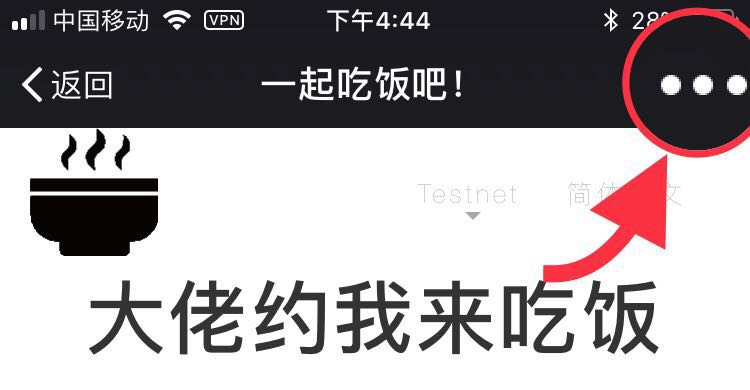
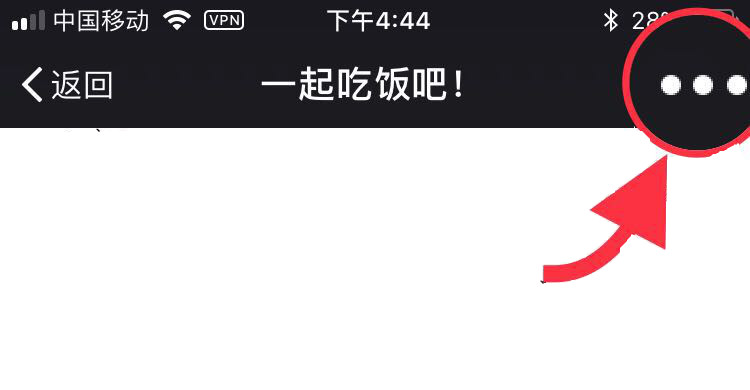
优化界面显示

diff --git a/fonts/iconfont.js b/fonts/iconfont.js
@@ -1,1 +1,1 @@
-(function(window){var svgSprite='<svg><symbol id="icon-xiangshang" viewBox="0 0 1024 1024"><path d="M854.016 739.328l-313.344-309.248-313.344 309.248q-14.336 14.336-32.768 21.504t-37.376 7.168-36.864-7.168-32.256-21.504q-29.696-28.672-29.696-68.608t29.696-68.608l376.832-373.76q14.336-14.336 34.304-22.528t40.448-9.216 39.424 5.12 31.232 20.48l382.976 379.904q28.672 28.672 28.672 68.608t-28.672 68.608q-14.336 14.336-32.768 21.504t-37.376 7.168-36.864-7.168-32.256-21.504z"  ></path></symbol><symbol id="icon-xiangxia" viewBox="0 0 1026 1024"><path d="M857.088 224.256q28.672-28.672 69.12-28.672t69.12 28.672q29.696 28.672 29.696 68.608t-29.696 68.608l-382.976 380.928q-12.288 14.336-30.72 19.968t-38.912 4.608-40.448-8.704-34.304-22.016l-376.832-374.784q-29.696-28.672-29.696-68.608t29.696-68.608q14.336-14.336 32.256-21.504t36.864-7.168 37.376 7.168 32.768 21.504l313.344 309.248z"  ></path></symbol><symbol id="icon-xinxi" viewBox="0 0 1024 1024"><path d="M512 64.7C264.9 64.7 64.7 264.9 64.7 512S264.9 959.3 512 959.3c247.1 0 447.3-200.3 447.3-447.3S759.1 64.7 512 64.7z m64 699.6c0 35.1-28.8 63.9-63.9 63.9s-63.9-28.8-63.9-63.9V508.7c0-35.1 28.8-63.9 63.9-63.9s63.9 28.8 63.9 63.9v255.6z m-63.9-440.8c-35.3 0-63.9-28.6-63.9-63.9s28.6-63.9 63.9-63.9 63.9 28.6 63.9 63.9-28.6 63.9-63.9 63.9z"  ></path></symbol></svg>';var script=function(){var scripts=document.getElementsByTagName("script");return scripts[scripts.length-1]}();var shouldInjectCss=script.getAttribute("data-injectcss");var ready=function(fn){if(document.addEventListener){if(~["complete","loaded","interactive"].indexOf(document.readyState)){setTimeout(fn,0)}else{var loadFn=function(){document.removeEventListener("DOMContentLoaded",loadFn,false);fn()};document.addEventListener("DOMContentLoaded",loadFn,false)}}else if(document.attachEvent){IEContentLoaded(window,fn)}function IEContentLoaded(w,fn){var d=w.document,done=false,init=function(){if(!done){done=true;fn()}};var polling=function(){try{d.documentElement.doScroll("left")}catch(e){setTimeout(polling,50);return}init()};polling();d.onreadystatechange=function(){if(d.readyState=="complete"){d.onreadystatechange=null;init()}}}};var before=function(el,target){target.parentNode.insertBefore(el,target)};var prepend=function(el,target){if(target.firstChild){before(el,target.firstChild)}else{target.appendChild(el)}};function appendSvg(){var div,svg;div=document.createElement("div");div.innerHTML=svgSprite;svgSprite=null;svg=div.getElementsByTagName("svg")[0];if(svg){svg.setAttribute("aria-hidden","true");svg.style.position="absolute";svg.style.width=0;svg.style.height=0;svg.style.overflow="hidden";prepend(svg,document.body)}}if(shouldInjectCss&&!window.__iconfont__svg__cssinject__){window.__iconfont__svg__cssinject__=true;try{document.write("<style>.svgfont {display: inline-block;width: 1em;height: 1em;fill: currentColor;vertical-align: -0.1em;font-size:16px;}</style>")}catch(e){console&&console.log(e)}}ready(appendSvg)})(window)
+(function(window){var svgSprite='<svg><symbol id="icon-xiangshang" viewBox="0 0 1024 1024"><path d="M854.016 739.328l-313.344-309.248-313.344 309.248q-14.336 14.336-32.768 21.504t-37.376 7.168-36.864-7.168-32.256-21.504q-29.696-28.672-29.696-68.608t29.696-68.608l376.832-373.76q14.336-14.336 34.304-22.528t40.448-9.216 39.424 5.12 31.232 20.48l382.976 379.904q28.672 28.672 28.672 68.608t-28.672 68.608q-14.336 14.336-32.768 21.504t-37.376 7.168-36.864-7.168-32.256-21.504z"  ></path></symbol><symbol id="icon-xiangxia" viewBox="0 0 1026 1024"><path d="M857.088 224.256q28.672-28.672 69.12-28.672t69.12 28.672q29.696 28.672 29.696 68.608t-29.696 68.608l-382.976 380.928q-12.288 14.336-30.72 19.968t-38.912 4.608-40.448-8.704-34.304-22.016l-376.832-374.784q-29.696-28.672-29.696-68.608t29.696-68.608q14.336-14.336 32.256-21.504t36.864-7.168 37.376 7.168 32.768 21.504l313.344 309.248z"  ></path></symbol><symbol id="icon-shiwu" viewBox="0 0 1024 1024"><path d="M774.8 327.8c-50.6-4.8-97.3 4.3-131 22.7 15.9 20.3 26.1 52.1 26.1 87.9 0 29.2-6.8 55.7-17.9 75.5 28.3 16.9 64.5 28.8 104.6 32.6 96.7 9.2 179.2-32.4 184.2-92.8s-69.3-116.7-166-125.9z" fill="#FFB89A" ></path><path d="M67.2 494l1 31c2.2 67.7 26.2 133.6 69.6 190.4 41.6 54.5 99.6 99.2 167.9 129.3 15.2 6.7 32.9-0.2 39.5-15.4 6.7-15.2-0.2-32.9-15.4-39.5-59-26-108.9-64.3-144.4-110.8-29-38-47.5-80.7-54.4-125h762.6c-7 44.8-25.8 87.9-55.4 126.3-36.1 46.8-86.8 85.2-146.8 110.9-15.2 6.5-22.2 24.2-15.7 39.4 4.9 11.4 15.9 18.2 27.6 18.2 4 0 8-0.8 11.8-2.4 144.5-62.2 237-185.3 241.3-321.4l1-31H67.2z" fill="#45484C" ></path><path d="M591.9 800.1h-159c-35.2 0-64.1 28.8-64.1 64.1s28.8 64.1 64.1 64.1h159c35.2 0 64.1-28.8 64.1-64.1s-28.9-64.1-64.1-64.1z m0 68.1h-159c-2.1 0-4.1-2-4.1-4.1s2-4.1 4.1-4.1h159c2.1 0 4.1 2 4.1 4.1s-2 4.1-4.1 4.1z" fill="#45484C" ></path><path d="M498.1 373.5c-9.6-13.5-28.4-16.6-41.9-6.9-13.5 9.6-16.6 28.4-6.9 41.9 10.8 15.1 16.6 33 16.6 51.7 0 16.6 13.4 30 30 30s30-13.4 30-30c0-31.4-9.6-61.4-27.8-86.7zM432.4 321.8c-17.7-7.1-36.3-10.7-55.5-10.7-82.2 0-149 66.8-149 149 0 16.6 13.4 30 30 30s30-13.4 30-30c0-49.1 39.9-89 89-89 11.5 0 22.6 2.1 33.1 6.4 15.4 6.2 32.8-1.3 39-16.7 6.2-15.4-1.2-32.9-16.6-39z" fill="#33CC99" ></path><path d="M549.4 274.7c-46.7-45.6-107.7-70.8-171.8-70.8-64.1 0-125.1 25.1-171.8 70.8-46.1 45.1-74 106-78.6 171.4-1.2 16.5 11.3 30.9 27.8 32 16.5 1.1 30.9-11.3 32-27.8 3.5-50.8 25.1-97.9 60.7-132.7 35.4-34.6 81.5-53.7 129.9-53.7 48.3 0 94.5 19.1 129.9 53.7 35.6 34.8 57.1 81.9 60.7 132.7 1.1 15.8 14.3 27.9 29.9 27.9 0.7 0 1.4 0 2.1-0.1 16.5-1.2 29-15.5 27.8-32-4.6-65.4-32.5-126.3-78.6-171.4zM895.1 385.9c-11.5-19.4-27.7-36.6-48.1-51.2l53.9-58.3c11.2-12.2 10.5-31.2-1.7-42.4s-31.2-10.5-42.4 1.7l-65 70.4c-5-1.8-10.1-3.5-15.3-5l82.4-159.2c7.6-14.7 1.9-32.8-12.9-40.4-14.7-7.6-32.8-1.9-40.4 12.9l-91.2 176.3c-5.5-0.3-11.1-0.5-16.7-0.5-21.9 0-43.5 2.4-64.3 7.2-16.1 3.7-26.2 19.8-22.5 36 3.7 16.1 19.8 26.2 36 22.5 16.3-3.8 33.4-5.7 50.7-5.7 43.6 0 84.2 11.8 114.3 33.3 27.1 19.3 42 44 42 69.5 0 16.6 13.4 30 30 30s30-13.4 30-30c0-23.5-6.3-46.1-18.8-67.1z" fill="#45484C" ></path></symbol><symbol id="icon-xinxi" viewBox="0 0 1024 1024"><path d="M512 64.7C264.9 64.7 64.7 264.9 64.7 512S264.9 959.3 512 959.3c247.1 0 447.3-200.3 447.3-447.3S759.1 64.7 512 64.7z m64 699.6c0 35.1-28.8 63.9-63.9 63.9s-63.9-28.8-63.9-63.9V508.7c0-35.1 28.8-63.9 63.9-63.9s63.9 28.8 63.9 63.9v255.6z m-63.9-440.8c-35.3 0-63.9-28.6-63.9-63.9s28.6-63.9 63.9-63.9 63.9 28.6 63.9 63.9-28.6 63.9-63.9 63.9z"  ></path></symbol></svg>';var script=function(){var scripts=document.getElementsByTagName("script");return scripts[scripts.length-1]}();var shouldInjectCss=script.getAttribute("data-injectcss");var ready=function(fn){if(document.addEventListener){if(~["complete","loaded","interactive"].indexOf(document.readyState)){setTimeout(fn,0)}else{var loadFn=function(){document.removeEventListener("DOMContentLoaded",loadFn,false);fn()};document.addEventListener("DOMContentLoaded",loadFn,false)}}else if(document.attachEvent){IEContentLoaded(window,fn)}function IEContentLoaded(w,fn){var d=w.document,done=false,init=function(){if(!done){done=true;fn()}};var polling=function(){try{d.documentElement.doScroll("left")}catch(e){setTimeout(polling,50);return}init()};polling();d.onreadystatechange=function(){if(d.readyState=="complete"){d.onreadystatechange=null;init()}}}};var before=function(el,target){target.parentNode.insertBefore(el,target)};var prepend=function(el,target){if(target.firstChild){before(el,target.firstChild)}else{target.appendChild(el)}};function appendSvg(){var div,svg;div=document.createElement("div");div.innerHTML=svgSprite;svgSprite=null;svg=div.getElementsByTagName("svg")[0];if(svg){svg.setAttribute("aria-hidden","true");svg.style.position="absolute";svg.style.width=0;svg.style.height=0;svg.style.overflow="hidden";prepend(svg,document.body)}}if(shouldInjectCss&&!window.__iconfont__svg__cssinject__){window.__iconfont__svg__cssinject__=true;try{document.write("<style>.svgfont {display: inline-block;width: 1em;height: 1em;fill: currentColor;vertical-align: -0.1em;font-size:16px;}</style>")}catch(e){console&&console.log(e)}}ready(appendSvg)})(window)

diff --git a/index.html b/index.html
@@ -22,6 +22,10 @@
     <div class="title" style="text-align: center;color:#6f3304;"></div>
     <div class="container">
         <div class="row">
+            <div id=requires class="col-md-12">
+            </div>
+        </div>
+        <div class="row">
             <div class="col">
                 <div style="border:2px solid;border-radius: 4px;padding:1em;font-size: 2pm;">
                     <span data-i18n="rules"></span>
@@ -207,12 +211,14 @@
     <script src="libs/nebPay.js"></script>
     <script src="js/1-localSave.js"></script>
     <script src="js/home.v1.js"></script>
+    <script>
+        localSave.setItem("lang","zh");
+    </script>
     <script src="js/i18n.js" data-depends="jquery.slim"></script>
     <script src="js/ui-block.js" data-depends="bootbox blockies jquery.slim i18n.js nebulas.js"></script>
     <script>
         "use strict";
-        localSave.setItem("lang","zh");
-        
+
         var nebulas = require("nebulas"),
             Transaction = nebulas.Transaction,
             Utils = nebulas.Utils,
@@ -232,14 +238,14 @@
         });
 
         var lang = localSave.getItem("lang");
-        if((!os.isAndroid && !os.isPhone) && typeof (webExtensionWallet) === "undefined") {
-            bootbox.dialog({
-                backdrop: true,
-                onEscape: true,
-                message: lang=='zh'?"需要安装 extensionWallet 插件！":"Need install extensionWallet plugin!",
-                size: "large",
-                title: "Error"
-            });
+
+        if((!os.isAndroid && !os.isPhone)) {
+            if(typeof (webExtensionWallet) !== "undefined" ){
+                $("#requires").html('<span class="iconfont icon-xinxi" style="font-size:0.8em;"><a href="https://github.com/nebulasio/WebExtensionWallet">使用本网页需安装钱包插件，立即前往>></a></span>');
+            }
+        }
+        else {
+            $("#requires").html(' <span class="iconfont icon-xinxi" style="font-size:0.8em;"><a href="https://nano.nebulas.io/">使用本网页需安装星云钱包，立即前往>></a></span>');
         }
 
         neb.setRequest(new nebulas.HttpRequest(localSave.getItem("apiPrefix")));
@@ -251,7 +257,7 @@
             $("#weixin-tip").modal("show");
         }
         else {
-            var bindAddr=localStorage.getItem("bindAddr");
+            var bindAddr=localSave.getItem("bindAddr");
             if(!bindAddr||bindAddr=="") {
                 $("#bind-addr-dialog").modal("show");
                 $("#bind-addr").text("未绑定");
@@ -336,7 +342,7 @@
             var stateText,progressClass,btnText,btnState,btnClick,startTime,endTime;
             var na;
             if(dinner.beginBlock>currentBlock) {
-                stateText = '<h6 style="text-align:center;">未开始('+currentBlock+')</h6>';
+                stateText = '未开始';
                 progressClass='class="progress-bar progress-bar-striped bg-dinner"';
                 btnText = "我要竞价";
                 btnState = ' disabled=disabled';
@@ -346,7 +352,7 @@
                 na=' na';
             }
             else if(dinner.endBlock>currentBlock){
-                stateText = '<h6 style="text-align:center;">进行中('+currentBlock+')</h6>';
+                stateText = '进行中';
                 progressClass='class="progress-bar progress-bar-striped progress-bar-animated bg-dinner"';
                 btnText = "我要竞价";
                 btnState = dinner.locked?' disabled=disabled':'';
@@ -357,7 +363,7 @@
             }
             else {
                 var takeNas = getShareNas(dinner);
-                stateText = '<h6 style="text-align:center;">已完成('+currentBlock+')</h6>';
+                stateText = '已完成';
                 progressClass='class="progress-bar bg-dinner"';
                 btnText = takeNas.tookNas.gt(0)?"已领取 "+takeNas.tookNas+" NAS":
                     (takeNas.sharedNas.gt(0)? "可领取 "+takeNas.sharedNas+" NAS":"可领取 0 NAS");
@@ -384,7 +390,8 @@
 
             var html =
                 '<div class="dinner-header card-header bg-dinner'+collapseState+na+'" data-toggle="collapse" data-target="#dinner-body-'+dinner.id+'" onclick="void(0)">' +
-                    '<span class="badge badge-pill badge-info'+na+'">第'+(dinner.id+1)+'期</span>' +
+                    '<div><span class="badge badge-pill badge-info'+na+'">第'+(dinner.id+1)+'期</span>' +
+                    '<span class="badge badge-pill">（'+stateText+'）</span></div>' +
                     '<h5><span class="float-right iconfont"></span>'  +
                     '<span style="margin-right:2em">'+dinner.title+'</span></h5>' +
                     '<div class="text-nowrap header-hash">' +
@@ -400,7 +407,7 @@
                 '</div> <hr>'+
                 '<div class=row>' +
                     '<div class=col>' +
-                        stateText +
+                        '<h6 style="text-align:center;">'+stateText+'('+currentBlock+')</h6>' +
                         '<div class="progress">' +
                             '<div ' + progressClass + ' role="progressbar" ' +
                                 'value='+currentBlock+' min=' + dinner.beginBlock + 
@@ -447,13 +454,13 @@
         }
 
         function queryBlockTime(result,spanClassName,height) {
-            var timestamp = localStorage.getItem("blockTime."+height);
+            var timestamp = localSave.getItem("blockTime."+height);
             if(timestamp) {
                 return formatTime(parseInt(timestamp)*1000);
             }
             
             neb.api.getBlockByHeight({height:height,fullTransaction:false}).then(function(block) {
-                localStorage.setItem("blockTime."+height,block.timestamp);
+                localSave.setItem("blockTime."+height,block.timestamp);
                 result.find(spanClassName).text(formatTime(block.timestamp*1000));
             });
             return "";
@@ -769,7 +776,7 @@
             var validateAll = uiBlock.validate("#bind-addr-dialog");
             if (validateAll()) {
                 bindAddr = $("#bind-addr-dialog .icon-address input").val();
-                localStorage.setItem("bindAddr",bindAddr);
+                localSave.setItem("bindAddr",bindAddr);
                 $("#bind-addr").text(bindAddr);
                 $("#bind-addr-box").removeClass("alert-warning");
                 $("#bind-addr-box").addClass("alert-success");
@@ -778,7 +785,7 @@
         }
         function onClearBindAddr() {
             bindAddr="";
-            localStorage.setItem("bindAddr",bindAddr);
+            localSave.setItem("bindAddr",bindAddr);
             $("#bind-addr").text(bindAddr);
             $("#bind-addr-box").removeClass("alert-success");
             $("#bind-addr-box").addClass("alert-warning");

diff --git a/fonts/iconfont.css b/fonts/iconfont.css
@@ -1,10 +1,10 @@
 
 @font-face {font-family: "iconfont";
-  src: url('iconfont.eot?t=1528082405080'); /* IE9*/
-  src: url('iconfont.eot?t=1528082405080#iefix') format('embedded-opentype'), /* IE6-IE8 */
[1 lines of base64/hex data omitted]
-  url('iconfont.ttf?t=1528082405080') format('truetype'), /* chrome, firefox, opera, Safari, Android, iOS 4.2+*/
-  url('iconfont.svg?t=1528082405080#iconfont') format('svg'); /* iOS 4.1- */
+  src: url('iconfont.eot?t=1528205537715'); /* IE9*/
+  src: url('iconfont.eot?t=1528205537715#iefix') format('embedded-opentype'), /* IE6-IE8 */
[1 lines of base64/hex data omitted]
+  url('iconfont.ttf?t=1528205537715') format('truetype'), /* chrome, firefox, opera, Safari, Android, iOS 4.2+*/
+  url('iconfont.svg?t=1528205537715#iconfont') format('svg'); /* iOS 4.1- */
 }
 
 .iconfont {
@@ -18,6 +18,8 @@
 .icon-xiangshang:before { content: "\e600"; }
 
 .icon-xiangxia:before { content: "\e601"; }
+
+.icon-shiwu:before { content: "\e631"; }
 
 .icon-xinxi:before { content: "\e60f"; }
 

diff --git a/js/i18n.js b/js/i18n.js
@@ -137,7 +137,7 @@ var i18n = function () {
             rules:"Rules: Bidding during the event, each bid system will host the current bid deposit, and automatically return the deposit of the previous bidder. After the event is over, the highest bidder can get a chance to chat and chat with famous people. The deposit will be deducted by the system. For the operation and maintenance of the system; if the activity is set to be divided into proportions, all participants can receive activities divided into (amount received = maximum deposit * divided into proportions / number of bids)."
         },
         zh: {
-            title: "大佬约我来吃饭",
+            title: "一起饭吧！",
             subtitle: "基于星云链技术开发",
             amount: "金额",
             blog: "博客",

diff --git a/js/ui-block.js b/js/ui-block.js
@@ -274,7 +274,7 @@ var uiBlock = function () {
                 .addClass("container logo-main")
                 .html(
                     "<div class=row>" +
-                    '    <div class=col></div>' +
+                    '    <div class=col><span class="iconfont icon-shiwu" style="font-size: 48px;color: #e06301;line-height: 1.2em;"></span></div>' +
                     "    <div class=col>" + (showMenu?
                     "        <div class=dropdown>" +
                     '            <button class="btn dropdown-toggle" id=logo-main-dropdown-1 data-toggle=dropdown aria-haspopup=true aria-expanded=false>' + sApiText + "</button>" +

diff --git a/fonts/demo_symbol.html b/fonts/demo_symbol.html
@@ -45,6 +45,14 @@
             
                 <li>
                     <svg class="icon" aria-hidden="true">
+                        <use xlink:href="#icon-shiwu"></use>
+                    </svg>
+                    <div class="name">食物</div>
+                    <div class="fontclass">#icon-shiwu</div>
+                </li>
+            
+                <li>
+                    <svg class="icon" aria-hidden="true">
                         <use xlink:href="#icon-xinxi"></use>
                     </svg>
                     <div class="name">信息</div>

diff --git a/fonts/demo_fontclass.html b/fonts/demo_fontclass.html
@@ -25,6 +25,12 @@
                 </li>
             
                 <li>
+                <i class="icon iconfont icon-shiwu"></i>
+                    <div class="name">食物</div>
+                    <div class="fontclass">.icon-shiwu</div>
+                </li>
+            
+                <li>
                 <i class="icon iconfont icon-xinxi"></i>
                     <div class="name">信息</div>
                     <div class="fontclass">.icon-xinxi</div>

diff --git a/fonts/demo_unicode.html b/fonts/demo_unicode.html
@@ -45,6 +45,12 @@
                 </li>
             
                 <li>
+                <i class="icon iconfont">&#xe631;</i>
+                    <div class="name">食物</div>
+                    <div class="code">&amp;#xe631;</div>
+                </li>
+            
+                <li>
                 <i class="icon iconfont">&#xe60f;</i>
                     <div class="name">信息</div>
                     <div class="code">&amp;#xe60f;</div>

diff --git a/stylesheets/base.css b/stylesheets/base.css
@@ -7,19 +7,19 @@ body {
 }
 
 a {
-    color: #000
+    color: #e06400
 }
 
 a:focus,
 a:visited {
-    color: #333;
+    color: #ed9c6d;
     text-decoration: none
 }
 
 a:active,
 a:hover {
     cursor: pointer;
-    color: #333;
+    color: #ed9c6d;
     text-decoration: none
 }
 

diff --git a/stylesheets/ui-block.css b/stylesheets/ui-block.css
@@ -98,7 +98,7 @@ body {
 
 .logo-main .col:first-child {
     /*background: url(../images/logo-b.png) left center no-repeat content-box;*/
-    height: 70px;
+    height: 60px;
 }
 
 .logo-main .col:last-child {
